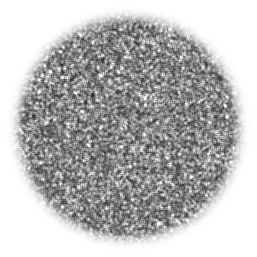
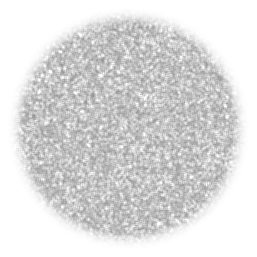
Update brush images to make them look better (tweak opacity, blur).

diff --git a/src/brush.js b/src/brush.js
@@ -21,12 +21,12 @@ define(['img!../brushes/brush-tile-129.png', './color'], function(brushesImg, Co
         hard: 0.22,
         medium: 0.06,
         'rough fine': 0.09,
-        'rough coarse': 0.09,
+        'rough coarse': 0.20,
         soft: 0.11,
         'dots small': 0.67,
         'dots large': 1.00,
-        'rect': 0.10,
-        'splotch': 0.88,
+        rect: 0.10,
+        splotch: 0.25,
         'splotches coarse': 0.23
     };
     // per-stamp brush rotation, in radians
